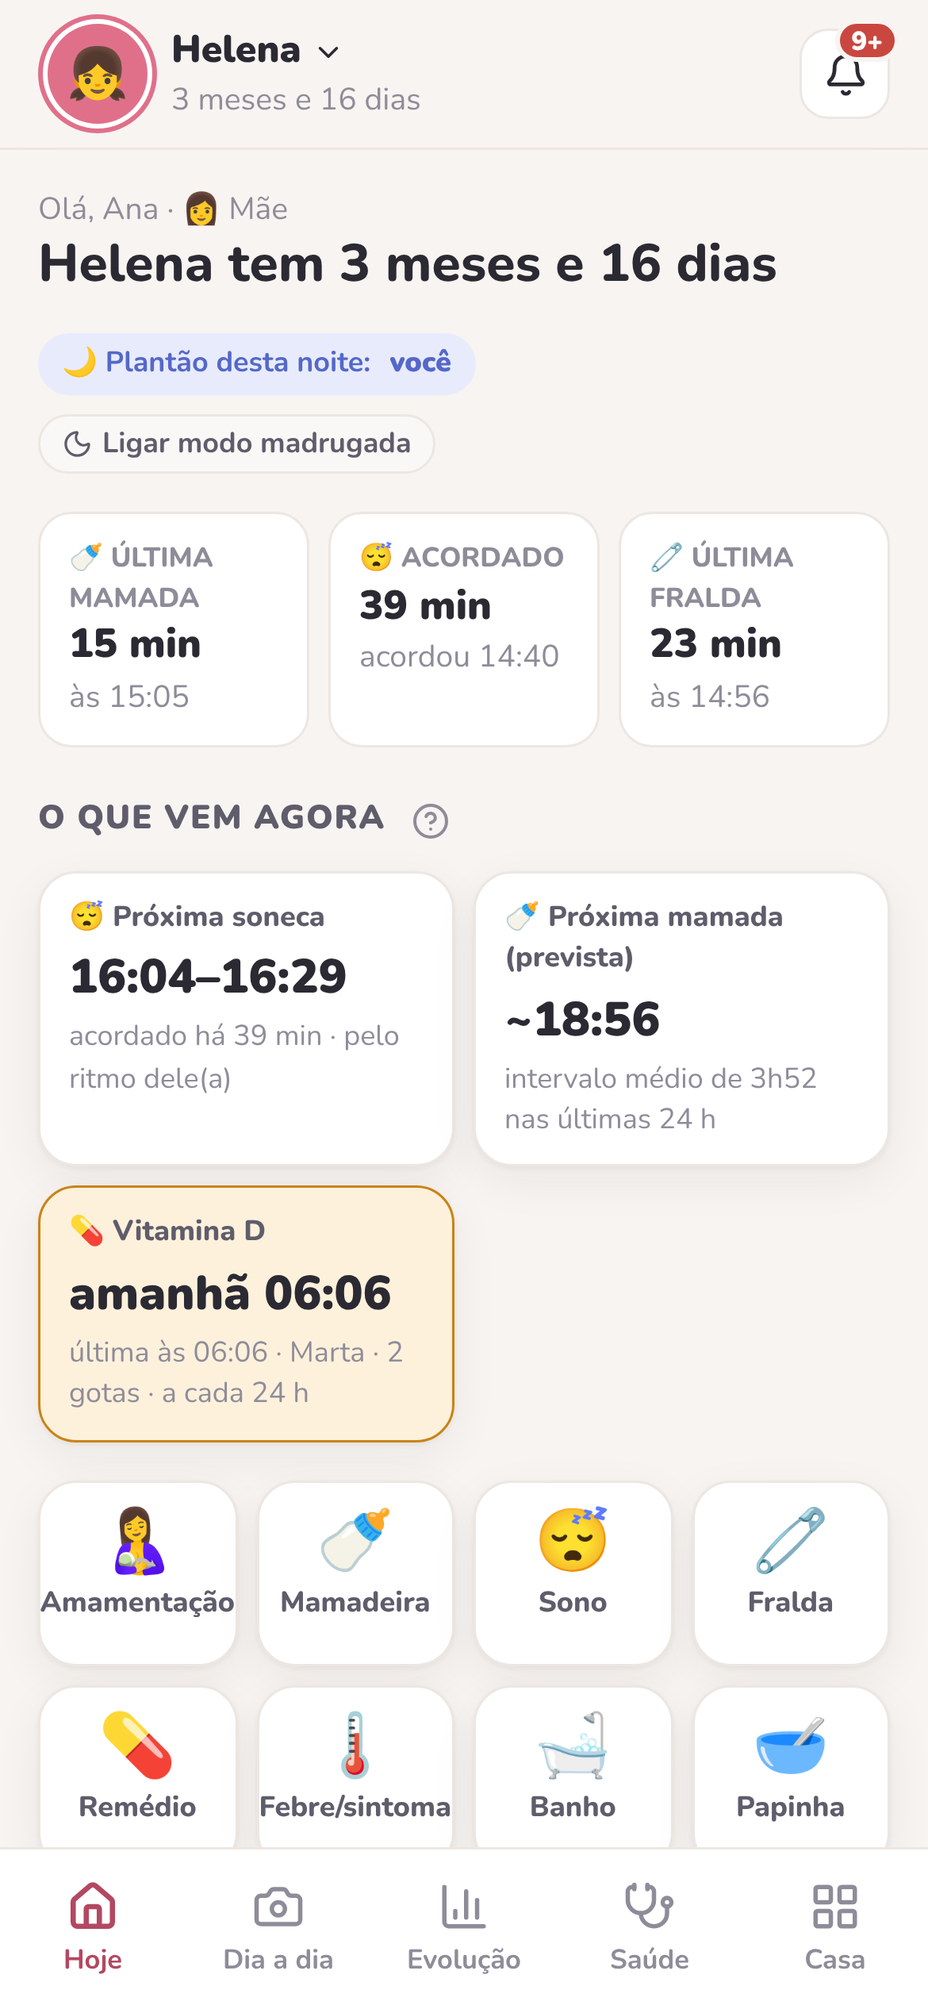
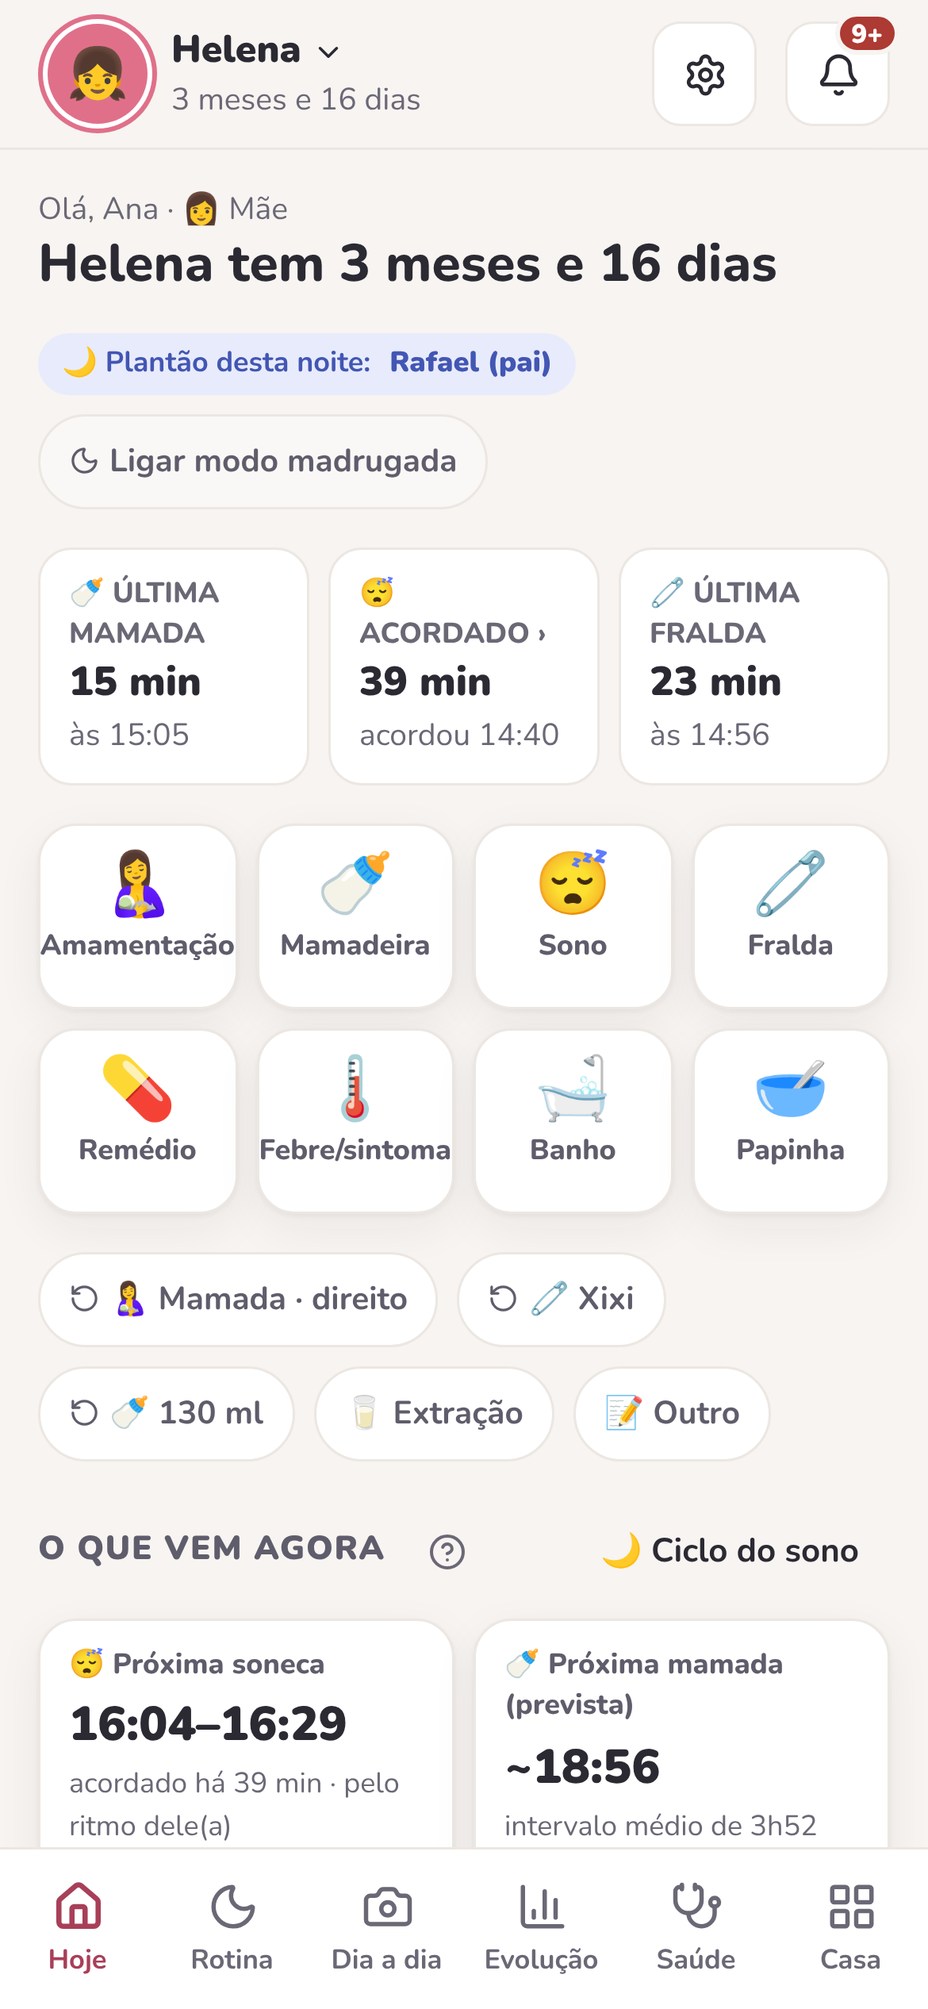
Vídeo modo de uso: telas e roteiro com a aba Rotina e Ajustes
- Captura das telas atuais: Hoje com registro no topo, aba Rotina (ciclo do sono, marcar,
  rotina planejada), Casa → Família reorganizada e ⚙ Ajustes
- Roteiro completo em 15 capítulos (~128 s) e essencial de 60 s com a aba Rotina
- Chamada final aponta as notificações em ⚙ Ajustes

Claude-Session: https://claude.ai/code/session_01FH7kzktZrdr3M3CLyK9355

diff --git a/video/motion.html b/video/motion.html
@@ -71,7 +71,7 @@
     <div class="chamada" style="font-size:64px;margin-top:34px">Bem-vindos ao Ninho!</div>
     <div class="lista">
       <div class="item" id="f1"><span class="em">📲</span><div>Instale na tela inicial<small>iPhone: Compartilhar → Adicionar à Tela de Início<br>Android: menu ⋮ → Instalar app</small></div></div>
-      <div class="item" id="f2"><span class="em">🔔</span><div>Ative as notificações<small>Casa → Família e ajustes → Notificações</small></div></div>
+      <div class="item" id="f2"><span class="em">🔔</span><div>Ative as notificações<small>⚙ Ajustes (no topo) → Notificações</small></div></div>
       <div class="item" id="f3"><span class="em">🔒</span><div>Dados só da sua família<small>Ninguém de fora vê os registros do bebê</small></div></div>
     </div>
     <div class="rodape">Família e dados deste vídeo são fictícios.</div>
@@ -97,92 +97,99 @@ const Y0 = 475; // topo da tela do celular no vídeo
 // toque: [t, x, y]; balão: [a, b, lado, y (px do app), emoji, texto, apoio]
 const ROTEIRO = [
   { t: 'Crie sua conta', s: 'Nome, e-mail e senha. Leva menos de 1 minuto.', telas: [
-    { f: '01-cadastro', d: 5, tipo: 'zoom', focos: [[0.9, 3.6, [32, 494, 326, 32]]], toques: [[4.4, 195, 603]], baloes: [[0.9, 4.8, 'd', 700, '💌', 'Recebeu um convite?', 'toque no link: você já entra na família certa']] },
+    { f: '01-cadastro', d: 5, tipo: 'zoom', focos: [[0.9, 3.6, [32, 492, 326, 26]]], toques: [[4.4, 195, 627]], baloes: [[0.9, 4.8, 'd', 700, '💌', 'Recebeu um convite?', 'toque no link: você já entra na família certa']] },
   ] },
   { t: 'Cadastre o bebê', s: 'Já nasceu ou ainda está na barriga: o Ninho acompanha as duas fases.', telas: [
-    { f: '02-bebe', d: 4.6, tipo: 'lado', focos: [[0.7, 2.5, [34, 318, 204, 98]], [2.6, 4.4, [34, 705, 330, 30]]], baloes: [[0.8, 2.6, 'd', 470, '🤰', 'Também na gestação', 'semanas, mala e pré-natal'], [2.7, 4.5, 'e', 600, '⚖', 'Peso e altura opcionais', 'da última consulta']] },
-    { f: '03-rotina', d: 4.4, tipo: 'rola', focos: [[0.7, 4.2, [37, 343, 316, 230]]], baloes: [[0.9, 4.3, 'd', 650, '🕒', 'Rotina pronta para a idade', 'ajustada depois pelos registros']] },
+    { f: '02-bebe', d: 4.6, tipo: 'lado', focos: [[0.7, 2.5, [24, 343, 204, 95]], [2.6, 4.4, [24, 740, 346, 26]]], baloes: [[0.8, 2.6, 'd', 470, '🤰', 'Também na gestação', 'semanas, mala e pré-natal'], [2.7, 4.5, 'e', 600, '⚖', 'Peso e altura opcionais', 'da última consulta']] },
+    { f: '03-rotina', d: 4.4, tipo: 'rola', focos: [[0.7, 4.2, [37, 358, 316, 245]]], baloes: [[0.9, 4.3, 'd', 260, '🕒', 'Rotina pronta para a idade', 'ajustada depois pelos registros']] },
   ] },
   { t: 'O app guia você', s: 'Primeiros passos mostram o que fazer e quanto falta.', telas: [
-    { f: '04-primeiros-passos', d: 4.6, tipo: 'lado', focos: [[0.7, 3.5, [16, 70, 358, 557]]], toques: [[4.0, 321, 195]], baloes: [[0.9, 4.4, 'd', 700, '👋', '5 passos para começar', 'registro, família, avisos, app e foto']] },
+    { f: '04-primeiros-passos', d: 4.6, tipo: 'lado', focos: [[0.7, 3.5, [16, 68, 358, 565]]], toques: [[4.0, 321, 201]], baloes: [[0.9, 4.4, 'd', 700, '👋', '5 passos para começar', 'registro, família, avisos, app e foto']] },
   ] },
   { t: 'Registre em 1 toque', s: 'Mamada, soneca, fralda, remédio, banho, papinha…', telas: [
-    { f: '05-registro', d: 4.4, tipo: 'sobe', focos: [[0.7, 4.2, [16, 442, 328, 42]]], baloes: [[0.8, 4.3, 'e', 330, '⏱', 'Cronometre agora', 'ou registre o que já aconteceu'], [2.2, 4.3, 'd', 640, '📶', 'Funciona sem internet', 'sincroniza quando a conexão voltar']] },
-    { f: '06-comemoracao', d: 4.4, tipo: 'fade', focos: [[0.6, 4.2, [16, 456, 358, 150]]], baloes: [[0.7, 4.3, 'e', 280, '🎉', 'O app explica o que vem a seguir', 'e oferece ativar as notificações']] },
+    { f: '05-registro', d: 4.4, tipo: 'sobe', focos: [[0.7, 4.2, [16, 435, 348, 48]]], baloes: [[0.8, 4.3, 'e', 300, '⏱', 'Cronometre agora', 'ou registre o que já aconteceu'], [2.2, 4.3, 'd', 640, '📶', 'Funciona sem internet', 'sincroniza quando a conexão voltar']] },
+    { f: '06-comemoracao', d: 4.4, tipo: 'fade', focos: [[0.6, 4.2, [16, 455, 358, 150]]], baloes: [[0.7, 4.3, 'e', 280, '🎉', 'O app explica o que vem a seguir', 'e oferece ativar as notificações']] },
   ] },
-  { t: 'Convide a família', s: 'Cada cuidador entra com o próprio login. Tudo em Casa → Família e ajustes.', telas: [
-    { f: '07-convite', d: 9, tipo: 'lado', focos: [[0.7, 3.2, [16, 490, 370, 115]], [3.3, 5.6, [16, 622, 358, 205]]], baloes: [[0.8, 3.2, 'd', 380, '🔐', '3 níveis de acesso', 'Administrador, Cuidador ou Acompanha'], [3.4, 5.6, 'd', 380, '💬', 'Envie pelo WhatsApp', 'o link já abre o convite']], pessoas: [5.6, 8.7] },
+  { t: 'Convide a família', s: 'Cada cuidador entra com o próprio login, em Casa → Família.', telas: [
+    { f: '07-convite', d: 9, tipo: 'lado', focos: [[0.7, 3.2, [16, 478, 370, 120]], [3.3, 5.6, [16, 615, 358, 210]]], baloes: [[0.8, 3.2, 'd', 380, '🔐', '3 níveis de acesso', 'Administrador, Cuidador ou Acompanha'], [3.4, 5.6, 'd', 380, '💬', 'Envie pelo WhatsApp', 'o link já abre o convite']], pessoas: [5.6, 8.7] },
   ] },
-  { t: 'O que vem agora', s: 'Previsão da próxima soneca e mamada e quem cuida à noite.', telas: [
-    { f: '08-hoje', d: 6, tipo: 'lado', focos: [[0.7, 2.8, [16, 140, 184, 26]], [2.9, 5.8, [16, 366, 358, 240]]], baloes: [[0.8, 2.9, 'd', 300, '🌙', 'Plantão desta noite', 'avisos só para quem está de plantão'], [3.0, 5.8, 'e', 700, '🔮', 'Previsões pelo ritmo do bebê', 'ficam melhores a cada registro']] },
+  { t: 'Hoje: tudo à mão', s: 'O resumo do dia e os botões de registro logo na primeira tela.', telas: [
+    { f: '08-hoje', d: 6, tipo: 'lado', focos: [[0.7, 2.9, [16, 228, 358, 102]], [3.0, 5.8, [16, 345, 358, 180]]], baloes: [[0.8, 2.9, 'd', 600, '⏳', 'Quanto tempo desde…', 'a última mamada, o sono e a fralda'], [3.1, 5.8, 'e', 640, '👆', 'Registre com 1 toque', 'e o ↻ repete o último']] },
   ] },
-  { t: 'Saiba onde agir', s: 'Atalhos para repetir registros e alertas com o próximo passo.', telas: [
-    { f: '09-hoje-registro', d: 4.4, tipo: 'rola', focos: [[0.6, 4.2, [16, 250, 340, 58]]], baloes: [[0.7, 4.3, 'd', 520, '🔁', 'Repita em 1 toque', 'o último registro de cada tipo']] },
-    { f: '10-onde-agir', d: 4.6, tipo: 'rola', focos: [[0.6, 4.4, [33, 128, 324, 288]]], baloes: [[0.8, 4.4, 'e', 640, '🧠', 'Cada alerta diz o que fazer', 'estoque, sono, mamadas e consultas']] },
+  { t: 'O que vem agora', s: 'Previsões e alertas que já dizem o que fazer.', telas: [
+    { f: '09-o-que-vem', d: 4.6, tipo: 'rola', focos: [[0.6, 4.4, [16, 110, 358, 240]]], baloes: [[0.8, 4.4, 'd', 520, '🔮', 'Próxima soneca e mamada', 'pelo ritmo do bebê']] },
+    { f: '10-onde-agir', d: 4.4, tipo: 'rola', focos: [[0.6, 4.2, [33, 145, 324, 320]]], baloes: [[0.8, 4.3, 'e', 620, '🧠', 'Cada alerta diz o que fazer', 'sono, consultas, estoque']] },
   ] },
-  { t: 'Rotina com check', s: 'Marque o que foi feito e receba uma rotina sugerida pelos registros.', telas: [
-    { f: '10b-rotina', d: 4.8, tipo: 'rola', focos: [[0.6, 3.0, [33, 128, 316, 145]], [3.1, 4.7, [30, 295, 232, 26]]], toques: [[2.4, 215, 218]], baloes: [[0.7, 3.0, 'd', 520, '✅', 'Toque para marcar', 'feito ou pulado'], [3.2, 4.8, 'e', 520, '✨', 'A rotina real mudou?', 'o Ninho sugere novos horários']] },
-    { f: '19-sugestao', d: 5, tipo: 'sobe', focos: [[0.6, 2.7, [16, 400, 358, 325]], [2.8, 4.8, [16, 741, 358, 26]]], baloes: [[0.8, 4.8, 'd', 190, '📊', 'Baseada em 14 dias de registros', 'você revisa antes de aplicar']] },
+  { t: 'Aba Rotina: o ciclo do sono', s: 'O dia em um relógio: sonos, mamadas, fraldas e a próxima soneca.', telas: [
+    { f: '20-rotina-ciclo', d: 6, tipo: 'lado', focos: [[0.6, 3.2, [16, 155, 358, 400]], [3.3, 5.8, [16, 655, 358, 58]]], baloes: [[0.8, 3.2, 'd', 610, '🌙', 'Próxima soneca e hora de dormir', 'e o que já aconteceu no dia'], [3.4, 5.8, 'e', 560, '😴', 'Dormiu ou acordou?', 'um toque registra']] },
+  ] },
+  { t: 'Marque tudo na Rotina', s: 'Registros, rotina planejada com check e a linha do tempo do dia.', telas: [
+    { f: '21-rotina-marcar', d: 4.4, tipo: 'rola', focos: [[0.6, 4.2, [16, 105, 358, 170]]], baloes: [[0.8, 4.3, 'e', 480, '✅', 'Tudo para marcar num lugar só', 'mamada, sono, fralda, remédio…']] },
+    { f: '22-rotina-planejada', d: 4.8, tipo: 'rola', focos: [[0.6, 3.0, [33, 145, 316, 230]], [3.1, 4.7, [30, 408, 232, 26]]], toques: [[2.4, 105, 306]], baloes: [[0.7, 3.0, 'd', 520, '☑', 'Toque para marcar', 'feito ou pulado'], [3.2, 4.8, 'e', 560, '✨', 'A rotina real mudou?', 'o Ninho sugere novos horários']] },
+    { f: '19-sugestao', d: 5, tipo: 'sobe', focos: [[0.6, 2.7, [16, 385, 358, 325]], [2.8, 4.8, [16, 736, 358, 26]]], baloes: [[0.8, 4.8, 'd', 190, '📊', 'Baseada em 14 dias de registros', 'você revisa antes de aplicar']] },
   ] },
   { t: 'Remédio com segurança', s: 'O Ninho avisa se alguém tentar dar a dose antes da hora.', telas: [
-    { f: '11-dose-dupla', d: 5, tipo: 'sobe', focos: [[0.7, 4.8, [16, 557, 358, 44]]], baloes: [[0.8, 4.8, 'e', 330, '⚠', 'Alerta de dose dupla', 'mostra quem deu e quando libera'], [2.2, 4.8, 'd', 720, '🔔', 'Lembrete da próxima dose', 'no celular de quem estiver cuidando']] },
+    { f: '11-dose-dupla', d: 5, tipo: 'sobe', focos: [[0.7, 4.8, [16, 552, 358, 44]]], baloes: [[0.8, 4.8, 'e', 330, '⚠', 'Alerta de dose dupla', 'mostra quem deu e quando libera'], [2.2, 4.8, 'd', 720, '🔔', 'Lembrete da próxima dose', 'no celular de quem estiver cuidando']] },
   ] },
   { t: 'Dia a dia', s: 'Fotos só para a família, com curtidas, marcos e cartão de mêsversário.', telas: [
-    { f: '12-dia-a-dia', d: 4.4, tipo: 'lado', focos: [[0.6, 2.5, [16, 134, 180, 42]], [2.6, 4.3, [17, 193, 356, 208]]], baloes: [[0.7, 2.6, 'e', 480, '🎂', 'Cartão de mêsversário', 'com foto, peso e conquistas'], [2.7, 4.3, 'd', 560, '⭐', 'Momentos marcantes', 'vindos dos marcos em Saúde']] },
-    { f: '12b-dia-a-dia-post', d: 4, tipo: 'rola', focos: [[0.6, 3.8, [17, 628, 356, 122]]], baloes: [[0.7, 3.9, 'e', 320, '❤', 'Curtidas da família', 'só quem cuida vê as fotos']] },
+    { f: '12-dia-a-dia', d: 4.4, tipo: 'lado', focos: [[0.6, 2.5, [16, 133, 190, 44]], [2.6, 4.3, [17, 193, 356, 208]]], baloes: [[0.7, 2.6, 'e', 480, '🎂', 'Cartão de mêsversário', 'com foto, peso e conquistas'], [2.7, 4.3, 'd', 560, '⭐', 'Momentos marcantes', 'vindos dos marcos em Saúde']] },
+    { f: '12b-dia-a-dia-post', d: 4, tipo: 'rola', focos: [[0.6, 3.8, [17, 632, 356, 120]]], baloes: [[0.7, 3.9, 'e', 320, '❤', 'Curtidas da família', 'só quem cuida vê as fotos']] },
   ] },
   { t: 'Acompanhe a evolução', s: 'Dia, semana e mês, comparados ao período anterior.', telas: [
-    { f: '13-evolucao', d: 4.4, tipo: 'lado', focos: [[0.6, 4.2, [17, 310, 356, 146]]], baloes: [[0.8, 4.3, 'd', 620, '📈', 'Comparado à semana anterior', 'e à referência para a idade']] },
-    { f: '14-evolucao-2', d: 4.4, tipo: 'rola', focos: [[0.6, 4.2, [17, 314, 356, 325]]], baloes: [[0.8, 4.3, 'e', 720, '📝', 'Leitura do período', 'em linguagem simples']] },
+    { f: '13-evolucao', d: 4.4, tipo: 'lado', focos: [[0.6, 4.2, [16, 383, 358, 150]]], baloes: [[0.8, 4.3, 'd', 640, '📈', 'Comparado à semana anterior', 'e à referência para a idade']] },
+    { f: '14-evolucao-2', d: 4.4, tipo: 'rola', focos: [[0.6, 4.2, [16, 388, 358, 320]]], baloes: [[0.8, 4.3, 'e', 250, '📝', 'Leitura do período', 'em linguagem simples']] },
   ] },
   { t: 'Saúde e pediatra', s: 'Peso, vacinas, consultas, marcos e relatório em PDF.', telas: [
-    { f: '15-saude', d: 4.4, tipo: 'lado', focos: [[0.6, 2.4, [16, 151, 226, 42]], [2.5, 4.2, [17, 210, 356, 256]]], baloes: [[0.7, 2.5, 'd', 380, '📄', 'Relatório para o pediatra', 'pronto em PDF'], [2.6, 4.3, 'e', 640, '💉', 'Peso, consultas e vacinas', 'tudo num lugar só']] },
-    { f: '16-saude-marcos', d: 4, tipo: 'fade', focos: [[0.5, 3.8, [17, 538, 356, 240]]], baloes: [[0.6, 3.9, 'd', 330, '⭐', 'Marcos e testes do RN', 'com a idade esperada']] },
+    { f: '15-saude', d: 4.4, tipo: 'lado', focos: [[0.6, 2.4, [16, 151, 226, 42]], [2.5, 4.2, [16, 488, 358, 140]]], baloes: [[0.7, 2.5, 'd', 380, '📄', 'Relatório para o pediatra', 'pronto em PDF'], [2.6, 4.3, 'e', 700, '🗂', 'Todas as seções à vista', 'vacinas, febre, marcos…']] },
+    { f: '16-saude-marcos', d: 4, tipo: 'fade', focos: [[0.5, 3.8, [17, 645, 356, 140]]], baloes: [[0.6, 3.9, 'd', 360, '⭐', 'Marcos e testes do RN', 'com a idade esperada']] },
   ] },
   { t: 'Casa: mural e plantão', s: 'Compras, recados, leite guardado e a divisão das noites.', telas: [
-    { f: '17-casa-leite', d: 4.4, tipo: 'lado', focos: [[0.6, 4.2, [17, 437, 356, 280]]], baloes: [[0.8, 4.3, 'e', 320, '🍼', 'Leite materno guardado', 'com validade e “usar primeiro”']] },
-    { f: '18-casa-plantao', d: 4.8, tipo: 'rola', focos: [[0.6, 2.6, [17, 70, 356, 250]], [2.7, 4.6, [17, 345, 356, 350]]], baloes: [[0.7, 2.6, 'd', 470, '🌙', 'Plantão da noite', 'quem acorda em cada dia'], [2.8, 4.7, 'e', 240, '🤝', 'Participação de cada cuidador', 'nos últimos 7 dias']] },
+    { f: '17-casa-leite', d: 4.4, tipo: 'lado', focos: [[0.6, 4.2, [17, 475, 356, 300]]], baloes: [[0.8, 4.3, 'e', 320, '🍼', 'Leite materno guardado', 'com validade e “usar primeiro”']] },
+    { f: '18-casa-plantao', d: 4.4, tipo: 'rola', focos: [[0.6, 4.2, [17, 510, 356, 240]]], baloes: [[0.7, 4.3, 'd', 330, '🌙', 'Plantão da noite', 'avisos só para quem está de plantão']] },
+  ] },
+  { t: 'Ajustes no ⚙', s: 'Perfil, notificações e dados ficam no ícone do topo.', telas: [
+    { f: '23-ajustes', d: 4.4, tipo: 'lado', focos: [[0.6, 4.2, [16, 575, 358, 140]]], toques: [[0.4, 296, 31]], baloes: [[0.8, 4.3, 'e', 360, '🌙', 'À noite, abre na Rotina', 'com o Dormiu/Acordou à mão']] },
   ] },
 ];
 
 // Versão essencial (~60 s): um destaque por tela e cortes no tempo da música (60 bpm, cortes em meia batida)
 const ROTEIRO_60 = [
   { t: 'Crie sua conta', s: 'Nome, e-mail e senha. Menos de 1 minuto.', telas: [
-    { f: '01-cadastro', d: 3.5, tipo: 'zoom', focos: [[0.5, 3.3, [32, 494, 326, 32]]], toques: [[3.1, 195, 603]], baloes: [[0.6, 3.4, 'd', 700, '💌', 'Recebeu um convite?', 'toque no link e entre na família']] },
+    { f: '01-cadastro', d: 3.5, tipo: 'zoom', focos: [[0.5, 3.3, [32, 492, 326, 26]]], toques: [[3.1, 195, 627]], baloes: [[0.6, 3.4, 'd', 700, '💌', 'Recebeu um convite?', 'toque no link e entre na família']] },
   ] },
   { t: 'Cadastre o bebê', s: 'Ele é o centro de tudo. A rotina já vem pronta.', telas: [
-    { f: '02-bebe', d: 3.5, tipo: 'lado', focos: [[0.5, 3.4, [34, 318, 204, 98]]], baloes: [[0.6, 3.4, 'd', 470, '🤰', 'Também na gestação', 'semanas, mala e pré-natal']] },
-    { f: '03-rotina', d: 3.5, tipo: 'rola', focos: [[0.5, 3.4, [37, 343, 316, 230]]], baloes: [[0.6, 3.4, 'd', 650, '🕒', 'Rotina pronta para a idade', 'ajustada pelos registros']] },
+    { f: '02-bebe', d: 3.5, tipo: 'lado', focos: [[0.5, 3.4, [24, 343, 204, 95]]], baloes: [[0.6, 3.4, 'd', 470, '🤰', 'Também na gestação', 'semanas, mala e pré-natal']] },
+    { f: '03-rotina', d: 3.5, tipo: 'rola', focos: [[0.5, 3.4, [37, 358, 316, 245]]], baloes: [[0.6, 3.4, 'd', 260, '🕒', 'Rotina pronta para a idade', 'ajustada pelos registros']] },
   ] },
   { t: 'Registre em 1 toque', s: 'Mamada, soneca, fralda, remédio, banho…', telas: [
-    { f: '05-registro', d: 3.5, tipo: 'sobe', focos: [[0.5, 3.4, [16, 442, 328, 42]]], baloes: [[0.6, 3.4, 'e', 330, '⏱', 'Cronometre ou registre depois', 'funciona até sem internet']] },
+    { f: '05-registro', d: 3.5, tipo: 'sobe', focos: [[0.5, 3.4, [16, 435, 348, 48]]], baloes: [[0.6, 3.4, 'e', 300, '⏱', 'Cronometre ou registre depois', 'funciona até sem internet']] },
   ] },
   { t: 'Convide a família', s: 'Cada cuidador com seu login e nível de acesso.', telas: [
-    { f: '07-convite', d: 6, tipo: 'lado', focos: [[0.5, 2.5, [16, 622, 358, 205]]], baloes: [[0.6, 2.5, 'd', 380, '💬', 'Convite pelo WhatsApp', 'o link já abre o app']], pessoas: [2.5, 5.9] },
+    { f: '07-convite', d: 6, tipo: 'lado', focos: [[0.5, 2.5, [16, 615, 358, 210]]], baloes: [[0.6, 2.5, 'd', 380, '💬', 'Convite pelo WhatsApp', 'o link já abre o app']], pessoas: [2.5, 5.9] },
   ] },
-  { t: 'O que vem agora', s: 'Próxima soneca, próxima mamada e quem cuida à noite.', telas: [
-    { f: '08-hoje', d: 4.5, tipo: 'lado', focos: [[0.5, 4.4, [16, 366, 358, 240]]], baloes: [[0.6, 4.4, 'e', 700, '🔮', 'Previsões pelo ritmo do bebê', 'melhores a cada registro']] },
+  { t: 'Hoje: tudo à mão', s: 'Resumo do dia e registro logo na primeira tela.', telas: [
+    { f: '08-hoje', d: 4, tipo: 'lado', focos: [[0.5, 3.9, [16, 228, 358, 297]]], baloes: [[0.6, 3.9, 'e', 640, '👆', 'Última mamada, sono e fralda', 'e os botões para registrar']] },
   ] },
-  { t: 'Saiba onde agir', s: 'Alertas que já dizem o que fazer.', telas: [
-    { f: '10-onde-agir', d: 3.5, tipo: 'rola', focos: [[0.5, 3.4, [33, 128, 324, 288]]], baloes: [[0.6, 3.4, 'e', 640, '🧠', 'Estoque, sono e mamadas', 'com o próximo passo']] },
+  { t: 'Aba Rotina', s: 'O ciclo do sono: próxima soneca, hora de dormir e o dia inteiro.', telas: [
+    { f: '20-rotina-ciclo', d: 4.5, tipo: 'lado', focos: [[0.5, 4.4, [16, 155, 358, 400]]], baloes: [[0.6, 4.4, 'd', 610, '🌙', 'Sonos, mamadas e fraldas', 'num relógio de 24 h']] },
   ] },
   { t: 'Rotina com check', s: 'Marque o que foi feito e receba sugestões de horário.', telas: [
-    { f: '10b-rotina', d: 3.5, tipo: 'rola', focos: [[0.5, 3.4, [33, 128, 316, 145]]], toques: [[2.2, 215, 218]], baloes: [[0.6, 3.4, 'd', 520, '✅', 'Feito ou pulado', 'em 1 toque']] },
+    { f: '22-rotina-planejada', d: 3.5, tipo: 'rola', focos: [[0.5, 3.4, [33, 145, 316, 230]]], toques: [[2.2, 105, 306]], baloes: [[0.6, 3.4, 'd', 520, '☑', 'Feito ou pulado', 'em 1 toque']] },
   ] },
   { t: 'Remédio com segurança', s: 'O app avisa se alguém tentar repetir a dose.', telas: [
-    { f: '11-dose-dupla', d: 3.5, tipo: 'sobe', focos: [[0.5, 3.4, [16, 557, 358, 44]]], baloes: [[0.6, 3.4, 'e', 330, '⚠', 'Alerta de dose dupla', 'mostra quando libera']] },
+    { f: '11-dose-dupla', d: 3.5, tipo: 'sobe', focos: [[0.5, 3.4, [16, 552, 358, 44]]], baloes: [[0.6, 3.4, 'e', 330, '⚠', 'Alerta de dose dupla', 'mostra quando libera']] },
   ] },
   { t: 'Dia a dia', s: 'Fotos só para a família, com curtidas.', telas: [
-    { f: '12b-dia-a-dia-post', d: 3.5, tipo: 'lado', focos: [[0.5, 3.4, [17, 628, 356, 122]]], baloes: [[0.6, 3.4, 'e', 320, '❤', 'Curtidas da família', 'e cartão de mêsversário']] },
+    { f: '12b-dia-a-dia-post', d: 3.5, tipo: 'lado', focos: [[0.5, 3.4, [17, 632, 356, 120]]], baloes: [[0.6, 3.4, 'e', 320, '❤', 'Curtidas da família', 'e cartão de mêsversário']] },
   ] },
   { t: 'Evolução', s: 'Sono e mamadas comparados à semana anterior.', telas: [
-    { f: '13-evolucao', d: 3.5, tipo: 'lado', focos: [[0.5, 3.4, [17, 310, 356, 146]]], baloes: [[0.6, 3.4, 'd', 620, '📈', 'Dentro do esperado?', 'referência para a idade']] },
+    { f: '13-evolucao', d: 3.5, tipo: 'lado', focos: [[0.5, 3.4, [16, 383, 358, 150]]], baloes: [[0.6, 3.4, 'd', 640, '📈', 'Dentro do esperado?', 'referência para a idade']] },
   ] },
   { t: 'Saúde e pediatra', s: 'Peso, vacinas, consultas e relatório em PDF.', telas: [
     { f: '15-saude', d: 3.5, tipo: 'lado', focos: [[0.5, 3.4, [16, 151, 226, 42]]], baloes: [[0.6, 3.4, 'd', 380, '📄', 'Relatório para o pediatra', 'pronto em PDF']] },
   ] },
   { t: 'Casa e plantão', s: 'Mural, leite guardado e a divisão das noites.', telas: [
-    { f: '18-casa-plantao', d: 3.5, tipo: 'lado', focos: [[0.5, 3.4, [17, 70, 356, 250]]], baloes: [[0.6, 3.4, 'd', 470, '🌙', 'Quem acorda em cada noite', 'avisos só para o plantão']] },
+    { f: '18-casa-plantao', d: 3.5, tipo: 'lado', focos: [[0.5, 3.4, [17, 510, 356, 240]]], baloes: [[0.6, 3.4, 'd', 330, '🌙', 'Quem acorda em cada noite', 'avisos só para o plantão']] },
   ] },
 ];
 

diff --git a/video/README.md b/video/README.md
@@ -1,16 +1,16 @@
 # Vídeo "modo de uso" do Ninho
 
-- `ninho-modo-de-uso.mp4`: vertical 1080×1920, ~113 s, para enviar às novas famílias (família e dados fictícios).
+- `ninho-modo-de-uso.mp4`: vertical 1080×1920, ~128 s, para enviar às novas famílias (família e dados fictícios).
 - `ninho-modo-de-uso-whatsapp.mp4`: 720×1280, compatível com o WhatsApp.
-- `ninho-essencial-60s.mp4` / `ninho-essencial-60s-whatsapp.mp4`: versão essencial de 60 s (12 capítulos, um destaque por tela,
+- `ninho-essencial-60s.mp4` / `ninho-essencial-60s-whatsapp.mp4`: versão essencial de 60 s (12 capítulos, com a aba Rotina, um destaque por tela,
   cortes no tempo da música).
 
 Trilha sonora original em clima lo-fi calmo, sintetizada por `trilha.py` (60 bpm, piano elétrico, kalimba e vinil; sem direitos de terceiros), com efeitos
 discretos nos cortes de tela, balões e toques, sincronizados pela linha do tempo do vídeo.
 
-Roteiro (13 capítulos): conta → bebê e rotina pronta → primeiros passos → registro em 1 toque → convite da família →
-o que vem agora (previsões e plantão) → onde agir → rotina com check e sugestão → remédio com alerta de dose dupla →
-Dia a dia (fotos, curtidas, mêsversário) → Evolução → Saúde → Casa (mural, leite e plantão).
+Roteiro (15 capítulos): conta → bebê e rotina pronta → primeiros passos → registro em 1 toque → convite da família →
+Hoje (resumo e registro no topo) → o que vem agora e onde agir → aba Rotina: ciclo do sono → marcar tudo, rotina com
+check e sugestão → remédio com alerta de dose dupla → Dia a dia → Evolução → Saúde → Casa (leite e plantão) → ⚙ Ajustes.
 
 Para regerar:
 1. Suba o app local com banco limpo:
